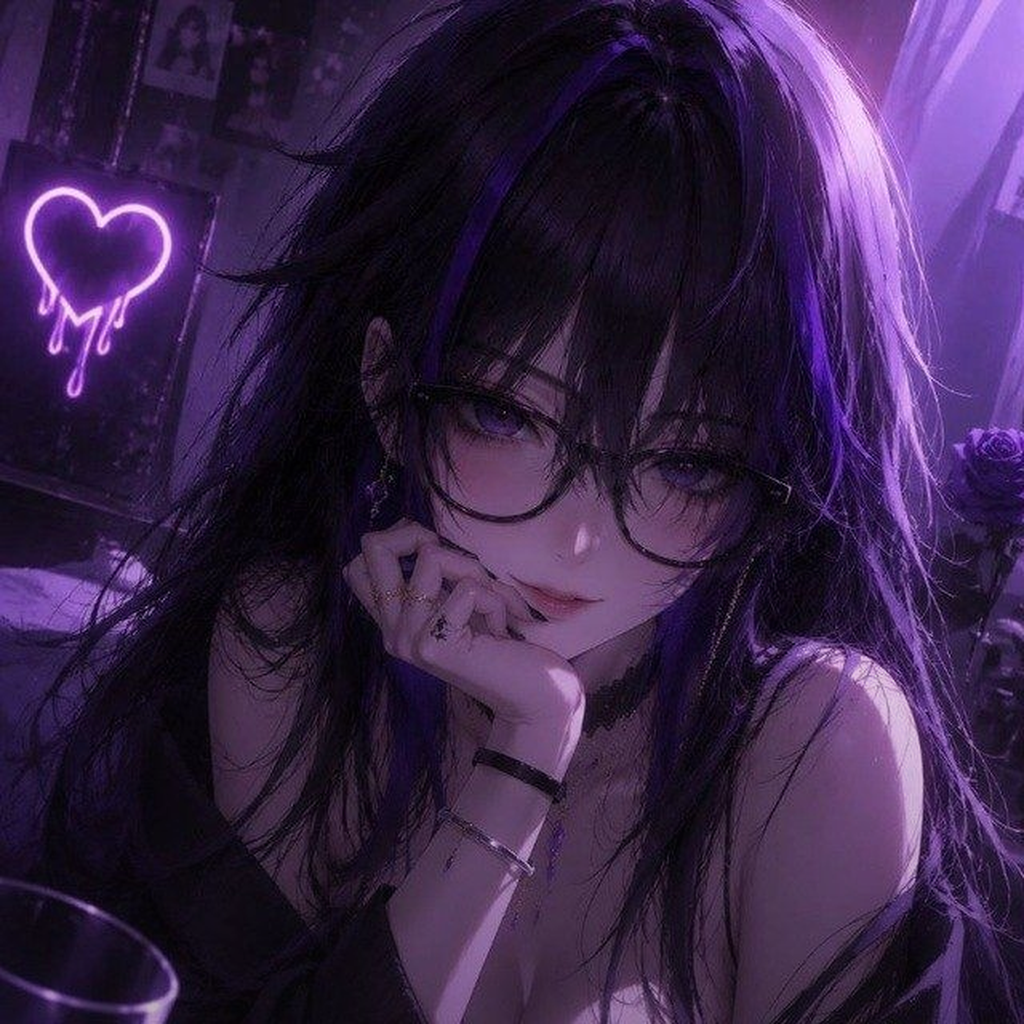
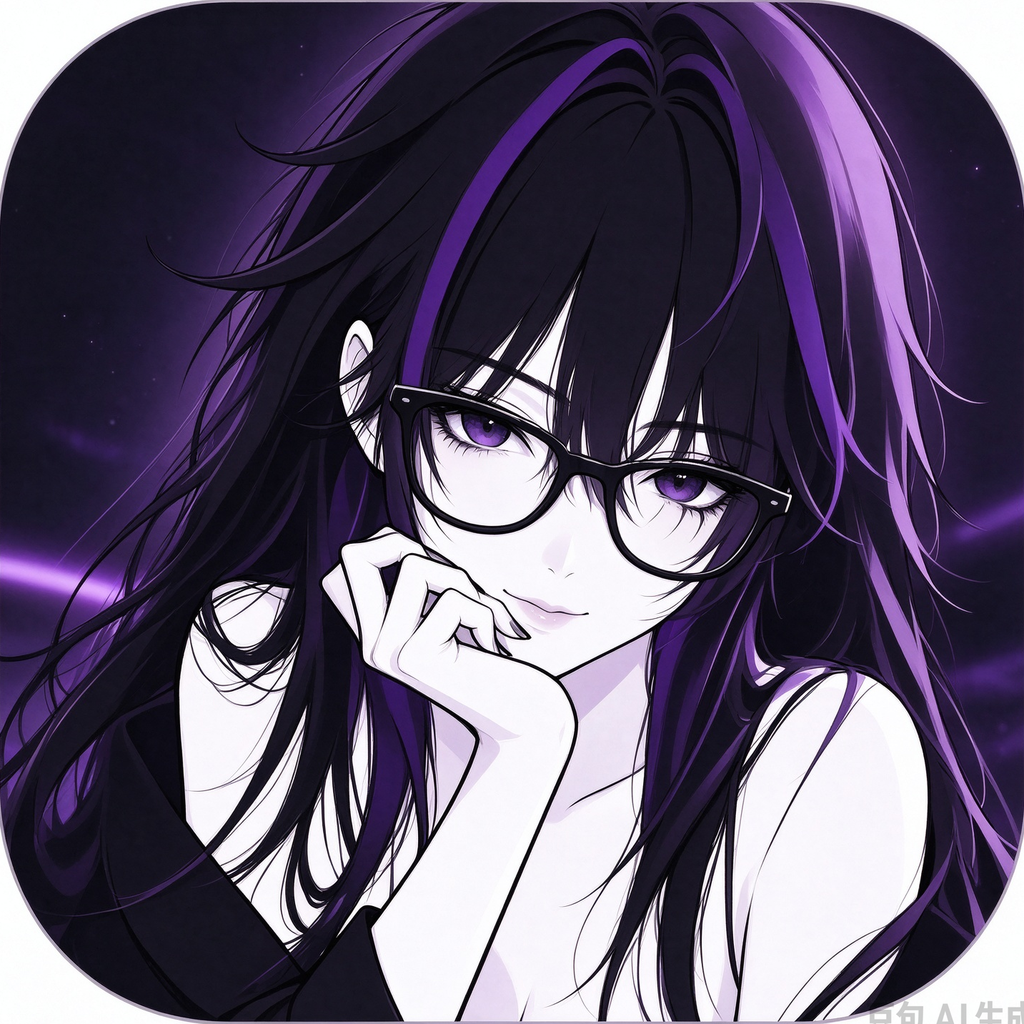
fix

diff --git a/tool/haven_icon_source.py b/tool/haven_icon_source.py
@@ -1,8 +1,14 @@
 #!/usr/bin/env python3
 """把新图标图裁成正方形图标源图（供 generate_icons.py 使用）。
 
-新图 再次新的软件图标.jpg 本身就是 640×640 的方形暗紫人像，
-所以这里只做缩放 + 一点点底部压暗，让它在小尺寸下更有层次。
+"新软件图标.png" 的图标本体是一个圆角方块，四周有一圈白边，
+右下角还有 AI 生成水印。这里：
+
+1. 自动扫描图标本体的边界（只取中间的行/列，避开右下角水印）；
+2. 向内收 2px，避开边缘抗锯齿白线；
+3. 取正方形、缩放到 1024；
+4. 白边、四角和水印交给 generate_icons.py 的圆角遮罩去掉
+   （遮罩半径 0.215，比图标圆角略大，正好切掉外圈）。
 
 用法
 ----
@@ -13,16 +19,57 @@
 from __future__ import annotations
 
 from pathlib import Path
+from statistics import median
 
-from PIL import Image, ImageDraw
+from PIL import Image
 
 ROOT = Path(__file__).resolve().parent.parent
-SOURCE = ROOT / '再次新的软件图标.jpg'
+SOURCE = ROOT / '新软件图标.png'
 TARGET = Path(__file__).resolve().parent / 'icon_source.png'
 SIZE = 1024
 
-# 底部压暗：图标下沿稍微沉一点，小尺寸下五官更清楚
-BOTTOM_DIM = 0.28
+# 白边判定阈值：三个通道都 >= 这个值才算「白」
+WHITE = 242
+# 向内收，避开边缘抗锯齿
+INSET = 2
+
+
+def detect_box(src: Image.Image) -> tuple[int, int, int, int]:
+    """只扫中间的行/列，避开右下角的水印。"""
+    w, h = src.size
+    px = src.load()
+
+    def non_white(x: int, y: int) -> bool:
+        r, g, b = px[x, y]
+        return not (r >= WHITE and g >= WHITE and b >= WHITE)
+
+    xs0: list[int] = []
+    xs1: list[int] = []
+    ys0: list[int] = []
+    ys1: list[int] = []
+
+    y_step = max(1, h // 40)
+    for y in range(int(h * 0.32), int(h * 0.68), y_step):
+        xs = [x for x in range(w) if non_white(x, y)]
+        if xs:
+            xs0.append(min(xs))
+            xs1.append(max(xs))
+
+    x_step = max(1, w // 40)
+    for x in range(int(w * 0.32), int(w * 0.68), x_step):
+        ys = [y for y in range(h) if non_white(x, y)]
+        if ys:
+            ys0.append(min(ys))
+            ys1.append(max(ys))
+
+    if not xs0 or not ys0:
+        return (0, 0, w - 1, h - 1)
+    return (
+        int(median(xs0)),
+        int(median(ys0)),
+        int(median(xs1)),
+        int(median(ys1)),
+    )
 
 
 def main() -> int:
@@ -30,25 +77,27 @@ def main() -> int:
         raise SystemExit(f'找不到源图：{SOURCE}')
 
     src = Image.open(SOURCE).convert('RGB')
-    w, h = src.size
-    side = min(w, h)
-    left = (w - side) // 2
-    top = (h - side) // 2
-    crop = src.crop((left, top, left + side, top + side)).resize(
-        (SIZE, SIZE), Image.LANCZOS
+    x0, y0, x1, y1 = detect_box(src)
+
+    left = x0 + INSET
+    top = y0 + INSET
+    right = x1 - INSET
+    bottom = y1 - INSET
+
+    side = min(right - left, bottom - top)
+    cx = (left + right) // 2
+    cy = (top + bottom) // 2
+    box = (
+        cx - side // 2,
+        cy - side // 2,
+        cx - side // 2 + side,
+        cy - side // 2 + side,
     )
 
-    shade = Image.new('RGBA', (SIZE, SIZE), (0, 0, 0, 0))
-    px = shade.load()
-    for y in range(SIZE):
-        t = y / (SIZE - 1)
-        alpha = int(255 * BOTTOM_DIM * (t ** 2.2))
-        for x in range(SIZE):
-            px[x, y] = (13, 10, 16, alpha)
-    crop = Image.alpha_composite(crop.convert('RGBA'), shade)
-
-    crop.convert('RGB').save(TARGET, 'PNG', optimize=True)
-    print(f'OK 图标源图：{TARGET.relative_to(ROOT)}  {crop.size[0]}x{crop.size[1]}')
+    crop = src.crop(box).resize((SIZE, SIZE), Image.LANCZOS)
+    crop.save(TARGET, 'PNG', optimize=True)
+    print(f'OK 图标源图：{TARGET.relative_to(ROOT)}  {crop.size[0]}x{crop.size[1]}  '
+          f'检测边界 {(x0, y0, x1, y1)}  裁剪区 {box}')
     return 0
 
 

diff --git a/tool/generate_icons.py b/tool/generate_icons.py
@@ -51,7 +51,7 @@ SOURCE = Path(__file__).resolve().parent / 'icon_source.png'
 # ── 形状参数 ──────────────────────────────────────────────────────────
 # 圆角半径占边长的比例。
 # 0.22 太圆（接近 squircle），0.16 更像「正方形 + 四边圆角」。
-CORNER_RATIO = 0.16
+CORNER_RATIO = 0.215
 
 # ── 是否生成自适应图标 ────────────────────────────────────────────────
 # ★ 默认 False：形状由启动器遮罩决定，控制不了，很多启动器会切成圆形。

diff --git a/README.md b/README.md
@@ -93,11 +93,11 @@ flutter run
 
 ## 图标
 
-新图标源图是 `再次新的软件图标.jpg`，处理链：
+新图标源图是 `新软件图标.png`，处理链：
 
 ```bash
-python3 tool/haven_icon_source.py   # 竖图 → 1024 方形源图（顶对齐裁切 + 玫瑰暗角）
-python3 tool/generate_icons.py      # 出 Android 各密度 PNG（圆角烘焙在 PNG 里）
+python3 tool/haven_icon_source.py   # 裁掉外圈白边 → 1024 方形源图
+python3 tool/generate_icons.py      # 出 Android 各密度 PNG（圆角烘焙，顺带切掉白边/水印）
 ```
 
 启动闪屏背景色与网页底色一致（`#0D0A10`）。
